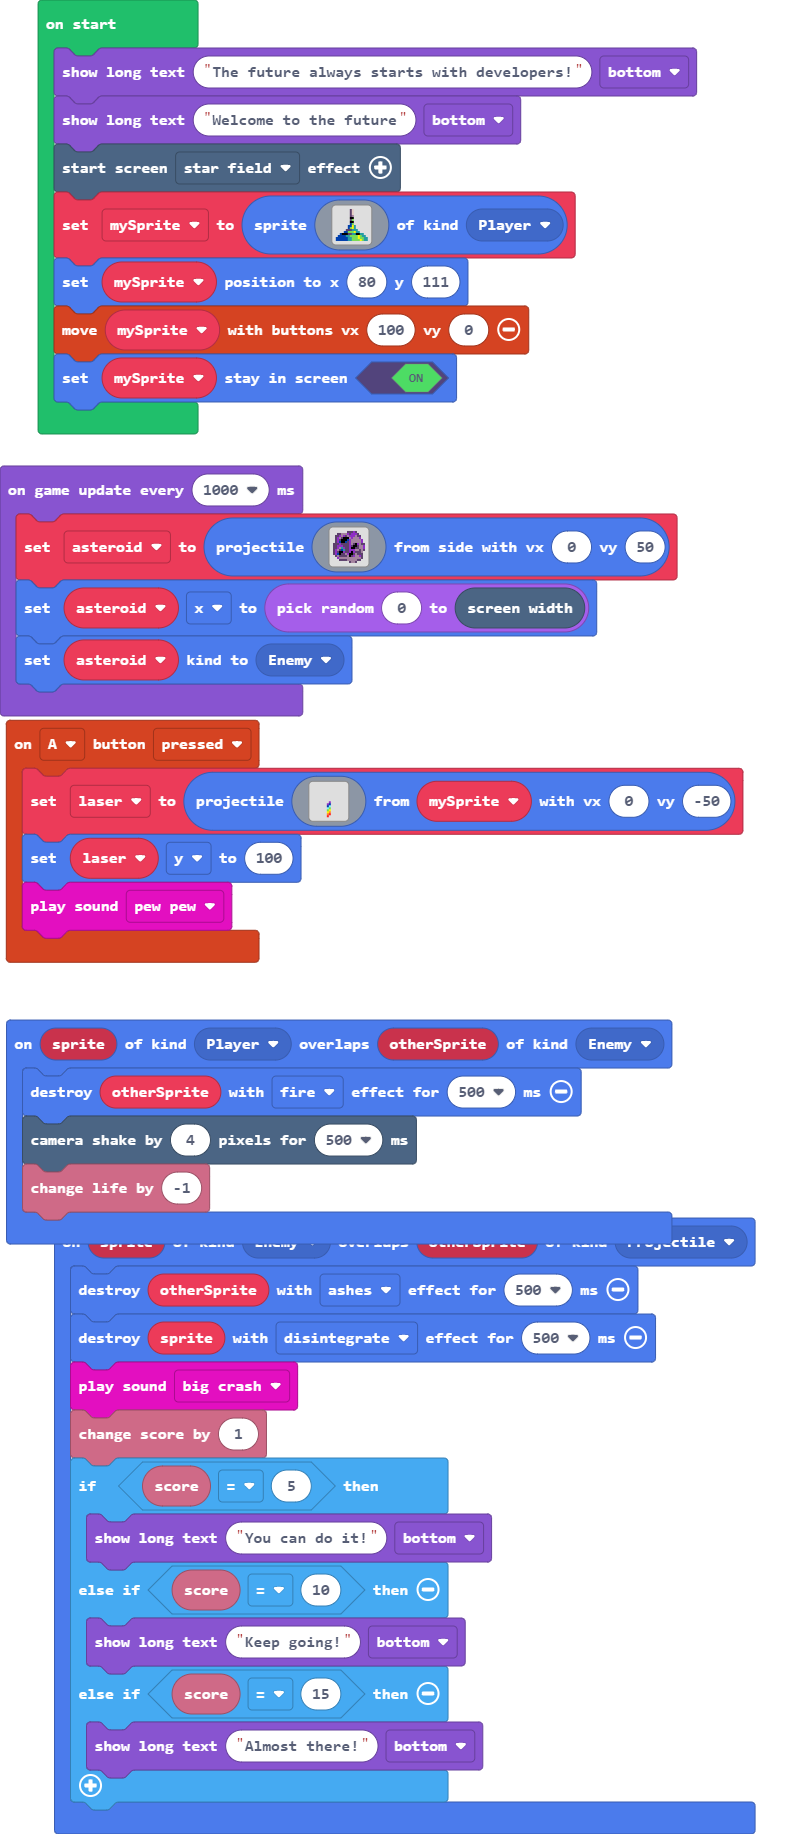
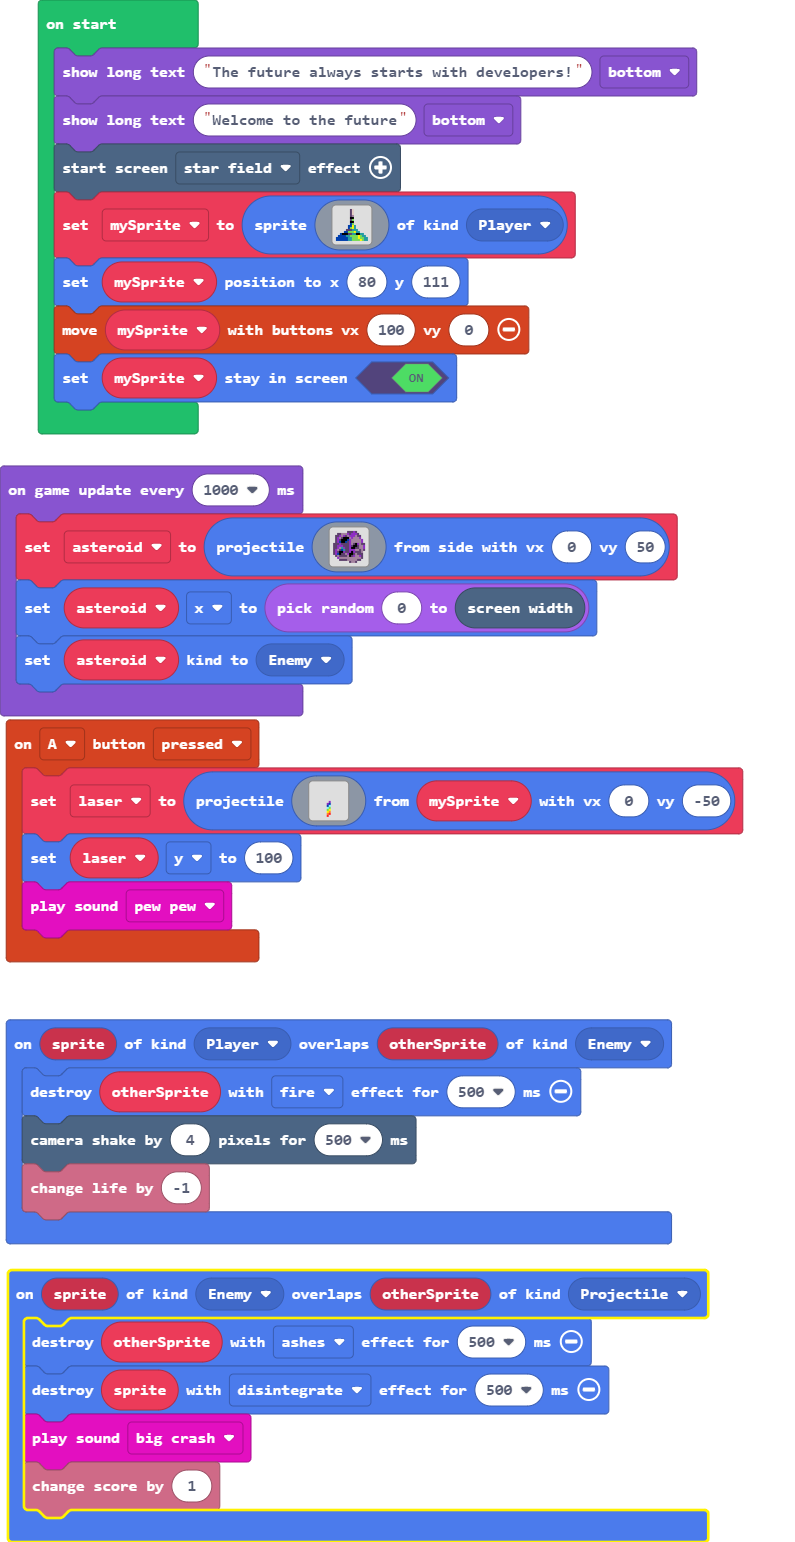
Update main.blocks, main.ts

diff --git a/main.ts b/main.ts
@@ -25,13 +25,6 @@ sprites.onOverlap(SpriteKind.Enemy, SpriteKind.Projectile, function (sprite, oth
     sprite.destroy(effects.disintegrate, 500)
     music.bigCrash.play()
     info.changeScoreBy(1)
-    if (info.score() == 5) {
-        game.showLongText("You can do it!", DialogLayout.Bottom)
-    } else if (info.score() == 10) {
-        game.showLongText("Keep going!", DialogLayout.Bottom)
-    } else if (info.score() == 15) {
-        game.showLongText("Almost there!", DialogLayout.Bottom)
-    }
 })
 sprites.onOverlap(SpriteKind.Player, SpriteKind.Enemy, function (sprite, otherSprite) {
     otherSprite.destroy(effects.fire, 500)
